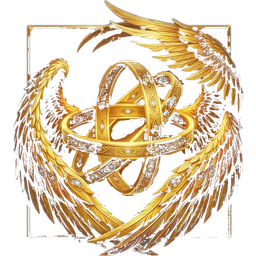
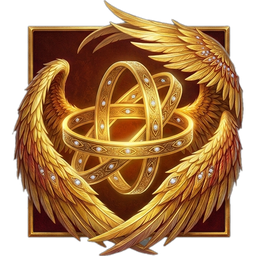
Add files via upload

diff --git a/sw.js b/sw.js
@@ -1,5 +1,5 @@
 /* Ophanark PWA service worker */
-var CACHE = 'ophanark-v27';
+var CACHE = 'ophanark-v28';
 var CORE = [
   './','./index.html','./manifest.webmanifest','./opening.jpg','./emblem.png',
   './app-icon-192.png','./app-icon-512.png','./app-apple-touch.png'